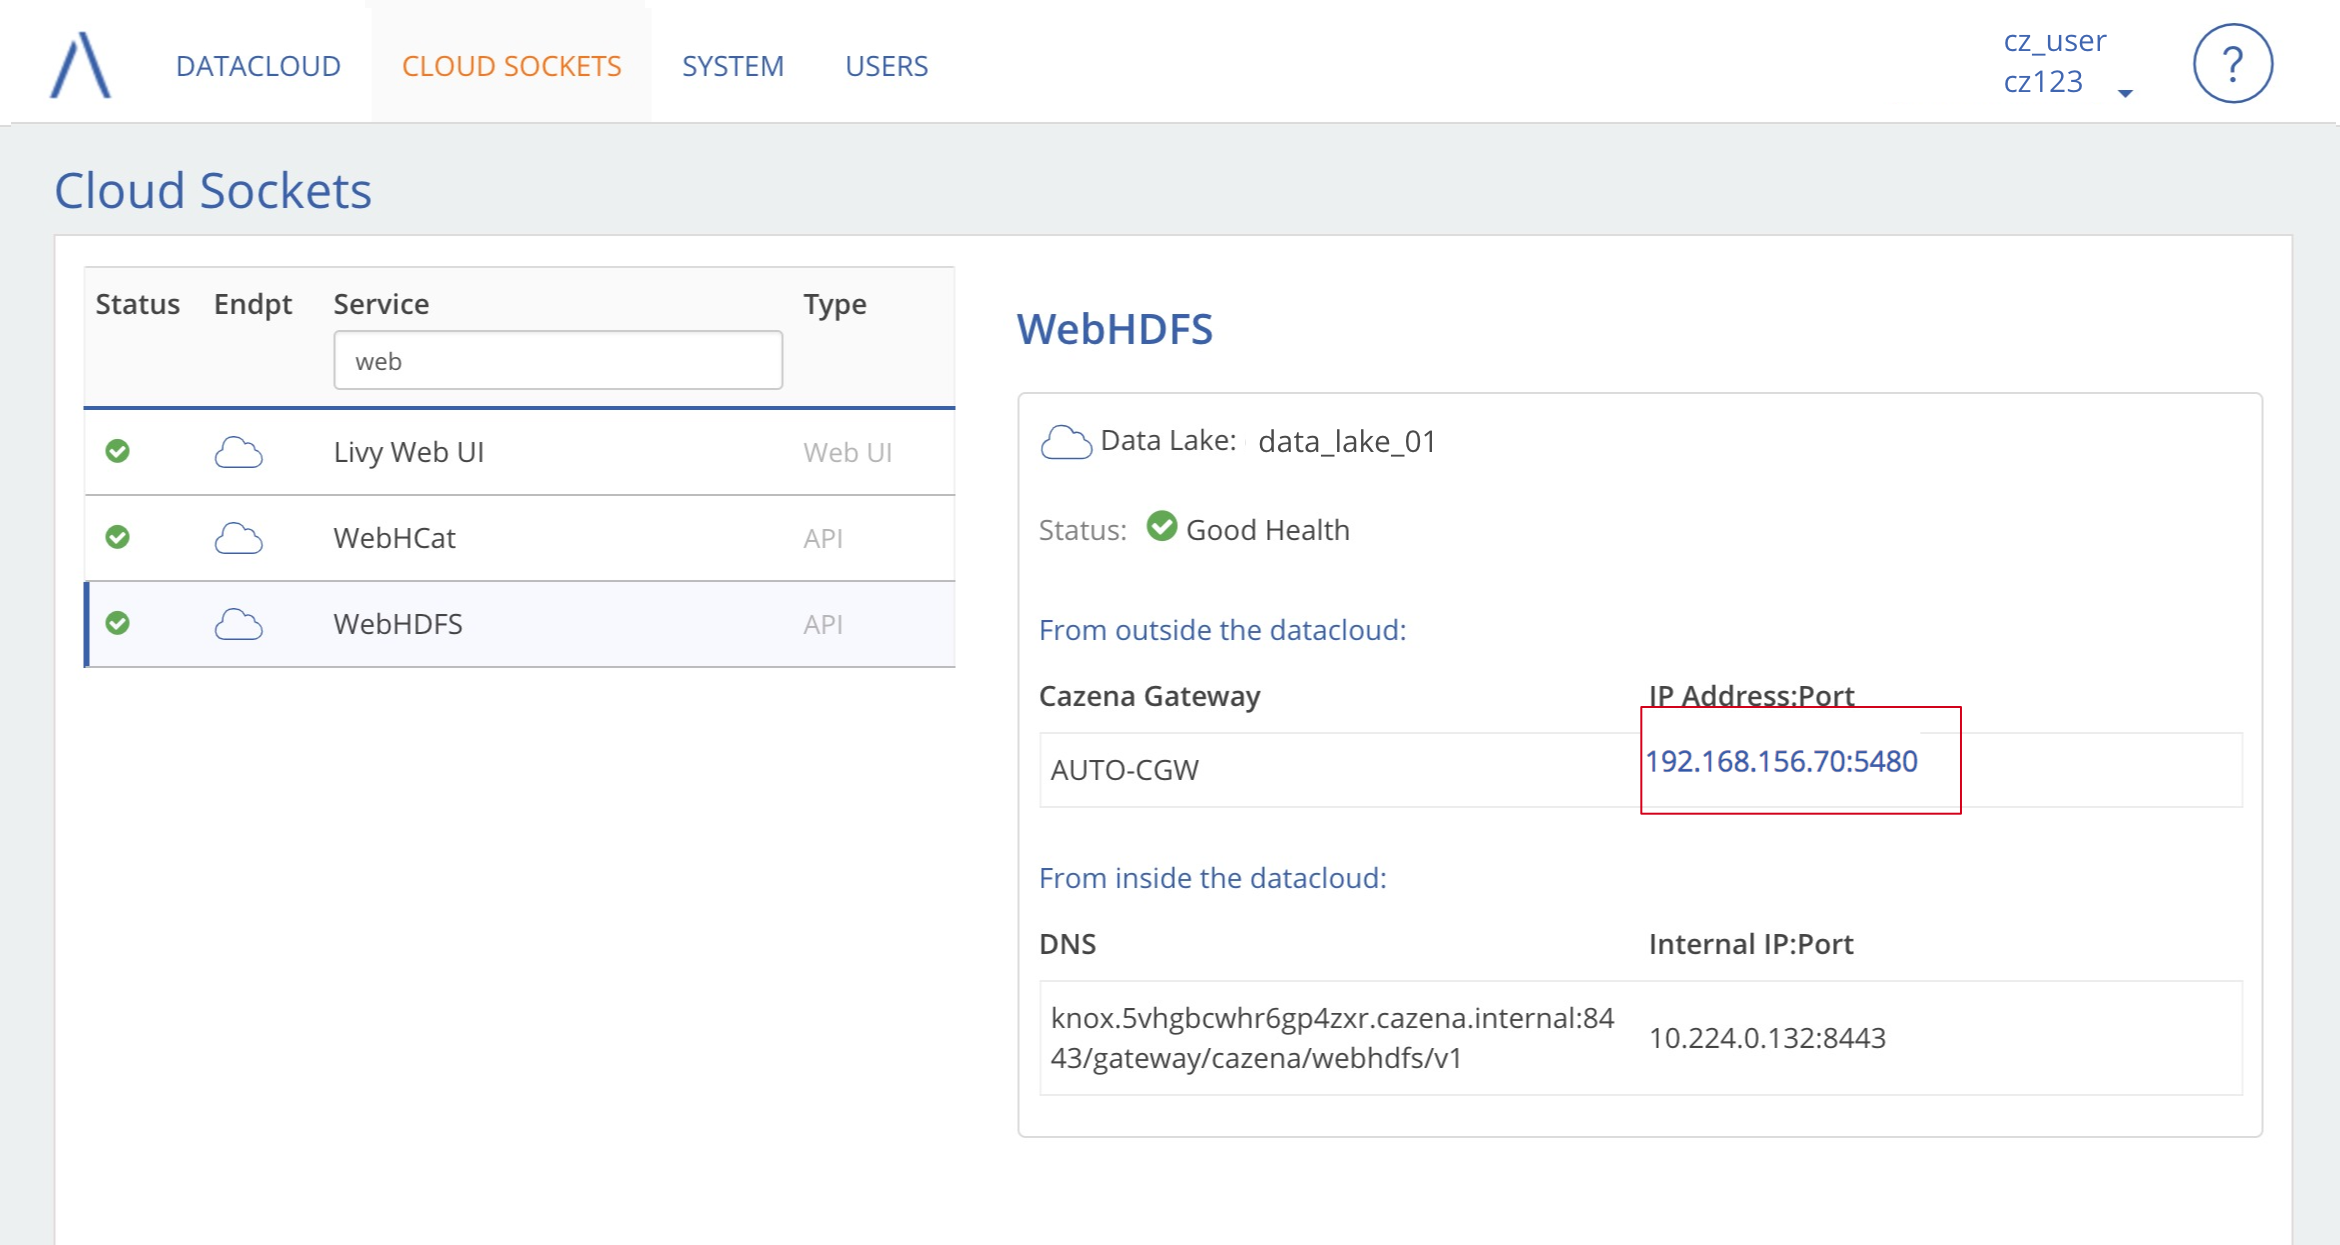
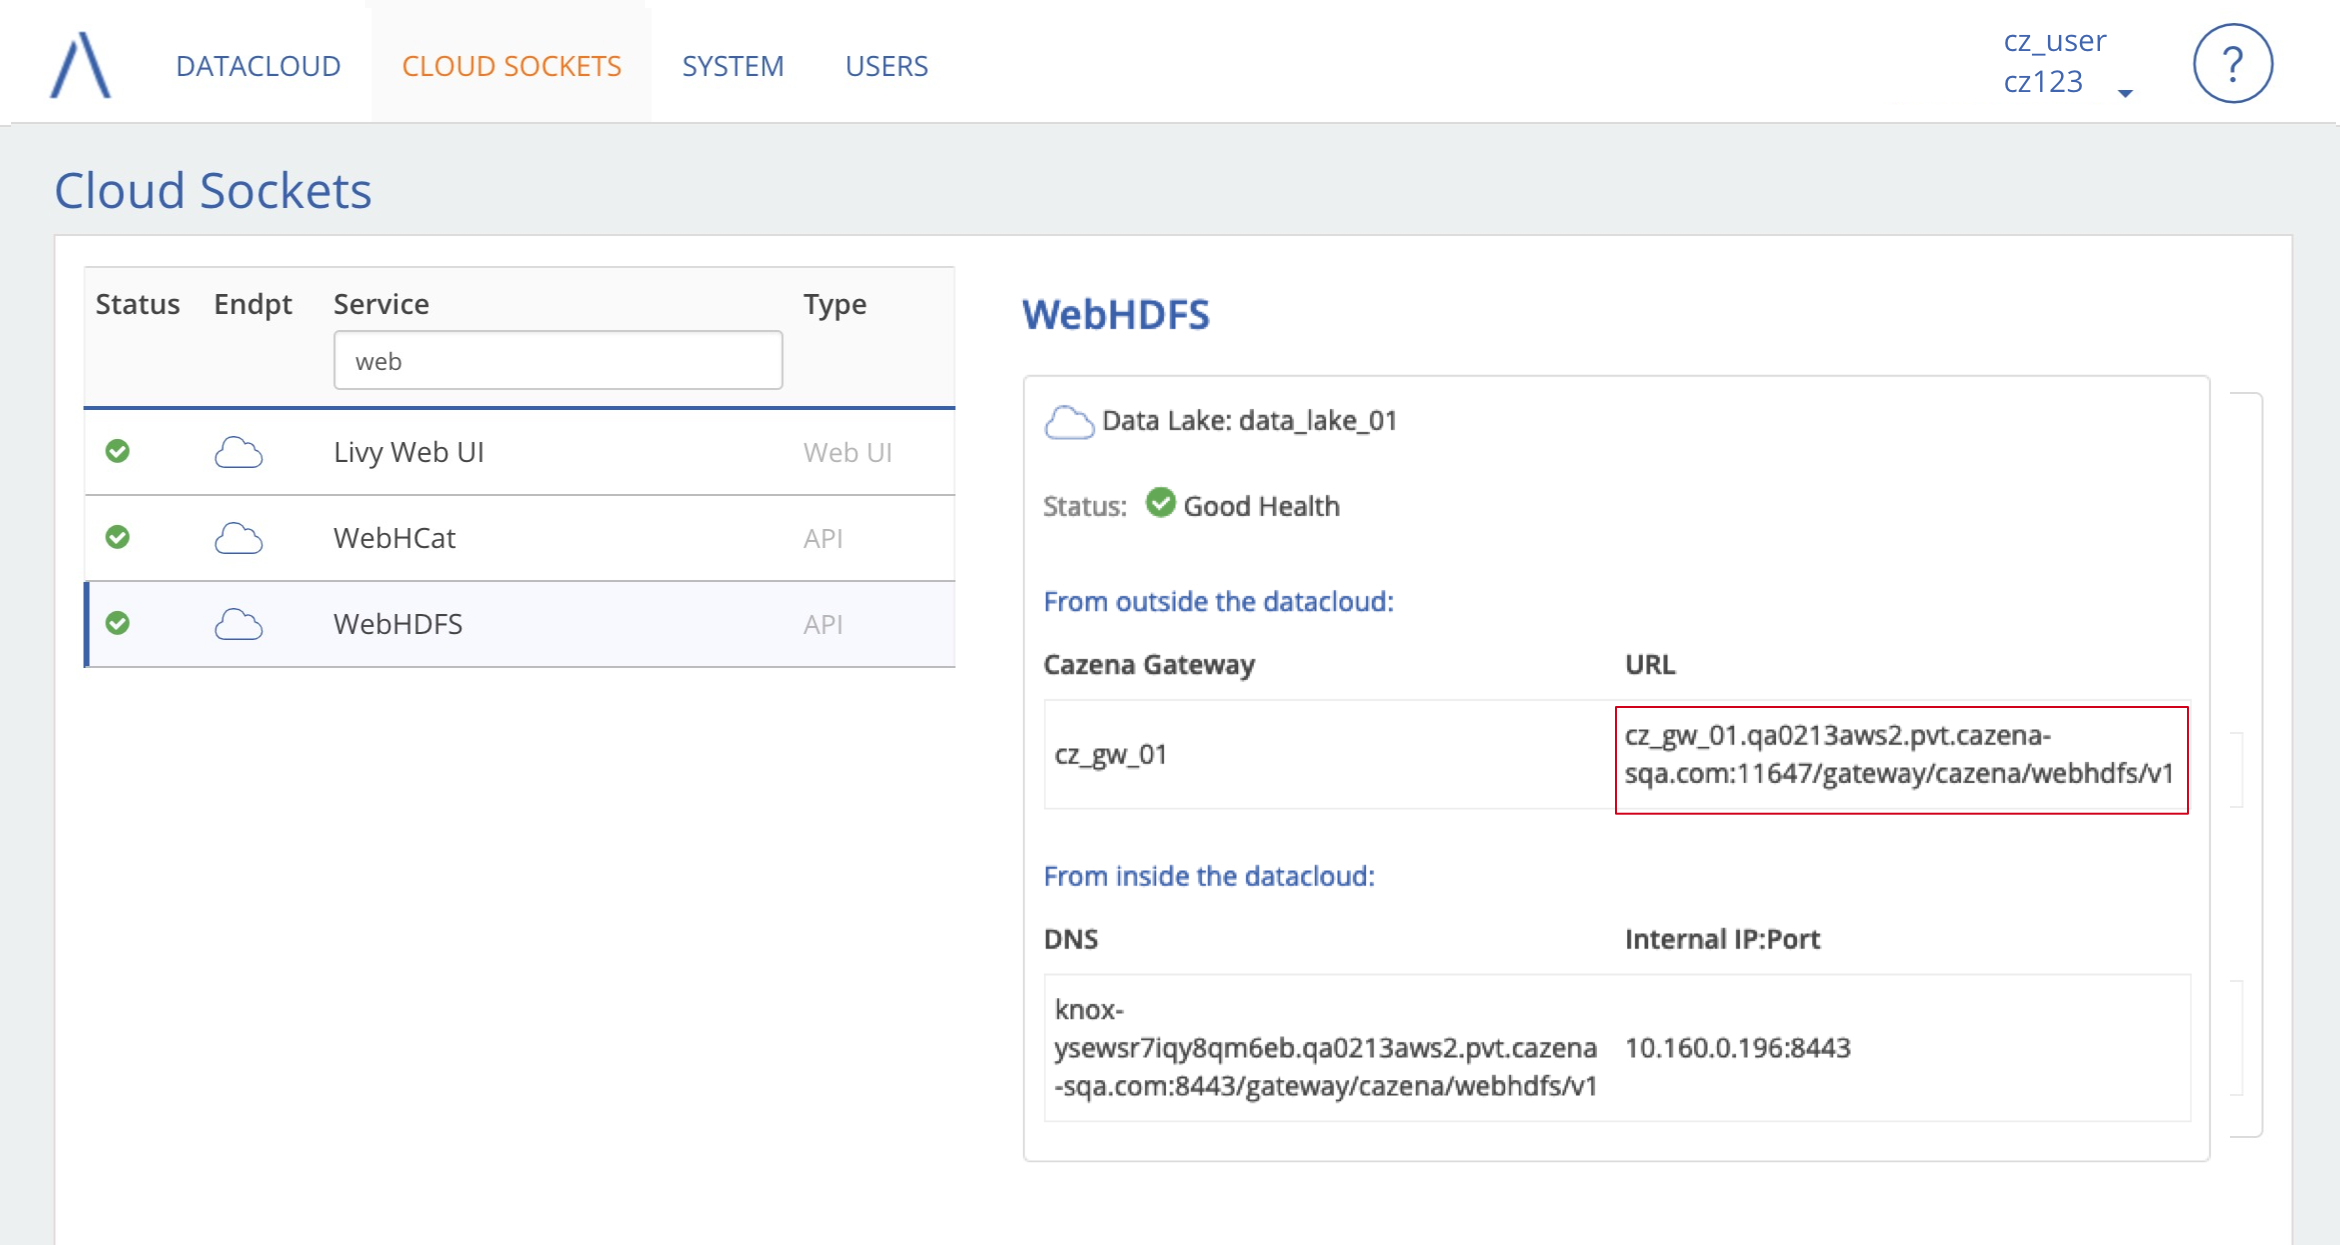
Update screenshots and IP references Remove Centralized Logging section

diff --git a/_site/index.html b/_site/index.html
@@ -64,8 +64,6 @@
   </li>
   <li>
     <p>The <strong>AppCloud</strong> allows you to deploy any tool (e.g., analytics, machine learning, or proprietary algorithms), with secure access to data in the cloud.</p>
-
-    <p><img src="assets/documentation/overview/system_diagram.png" alt=" Cazena System " title="Cazena System" /></p>
   </li>
 </ul>
 
@@ -86,9 +84,9 @@
 <p class="list">The details for a cloud socket contain two sections:</p>
 
 <h5 id="from-outside-the-datacloud">From outside the datacloud</h5>
-<p>Use <strong>IP Address:Port</strong> to connect to a service from outside of the datacloud. This will establish a secure  connection to the service through the Cazena Gateway. For example, you would use <strong>IP Address:Port</strong> to connect to RStudio Server via the Cazena gateway.</p>
+<p>Use the URL on the right side to connect to a service (e.g., RStudio) from outside of the datacloud. This will establish a secure connection to the service through the Cazena Gateway.</p>
 
-<p class="width-75"><img src="assets/documentation/cloud_sockets/rstudio_ip_address.png" alt=" RStudio IP Address:Port " title="RStudio IP Address:Port" /></p>
+<p class="width-75"><img src="assets/documentation/cloud_sockets/rstudio_url.png" alt=" RStudio URL " title="RStudio IP Address:Port" /></p>
 
 <p><br />
 <br /></p>
@@ -116,7 +114,7 @@
 
 <p class="step">Step 1: Setup (Optional)</p>
 
-<p class="list">This example shows how you would use RStudio with a table that you move into a data lake. To follow the example, you would first have to use the Cazena console to move a file, <a href="assets/documents/nycflights.dsv" target="_blank">nycflights.dsv</a>, onto a data lake.</p>
+<p class="list">This example shows how you would use RStudio with a table that you move into a data lake. To follow the example, you would first use the Cazena console to move a file, <a href="assets/documents/nycflights.dsv" target="_blank">nycflights.dsv</a>, onto a data lake.</p>
 
 <ul>
   <li>You can download the sample file here:  <a href="/documents/nycflights.dsv" target="_blank">nycflights.dsv</a></li>
@@ -135,7 +133,7 @@
 <ol>
   <li>Select the <strong>Cloud Sockets</strong> tab.</li>
   <li>On the left side of the screen, click on <strong>RStudio Server</strong>.</li>
-  <li>Click on the link that appears on the right side of the screen. If your company has more than one Cazena gateway, you may see more than one link; you can use any of them.</li>
+  <li>Click on the URL that appears on the right side of the screen. If your company has more than one Cazena gateway, you may see more than one link; you can use any of them.</li>
   <li>
     <p>RStudio will open in a new tab. Sign in using your Cazena credentials.</p>
 
@@ -392,18 +390,18 @@ HIVE_HOME=/opt/cloudera/parcels/CDH/lib/hive
 
 <ol>
   <li>
-    <p>From the <strong>Cloud Sockets</strong> tab, select <strong>AWS Console Login</strong> on the left side of the screen.</p>
+    <p>From the <strong>Cloud Sockets</strong> tab, select <strong>AWS S3 Console</strong> on the left side of the screen.</p>
   </li>
   <li>
     <p>A link to the AWS bucket will appear on the right side. Sessions that you initial from this link will expire after 12 hours.</p>
 
-    <p><img src="assets/documentation/object_store/aws_login_link.png" alt=" AWS Console Login " title="AWS Console Login" /></p>
+    <p><img src="assets/documentation/object_store/aws_login_link.png" alt=" AWS S3 Console " title="AWS S3 Console " /></p>
   </li>
 </ol>
 
 <h3 id="aws_account_information">View AWS Keys and Token</h3>
 
-<p>To view the bucket name, AWS access key, secret access key and session token, select the <strong>System</strong> tab, then <strong>S3</strong>. The AWS login link is also available on this page.</p>
+<p>To view the bucket name, AWS access key, secret access key and session token, select the <strong>System</strong> tab, then <strong>S3</strong>. The AWS S3 link is also available on this page.</p>
 
 <p><img src="assets/documentation/object_store/s3_variables.png" alt=" AWS Keys and Token " title="AWS Keys and Token " /></p>
 
@@ -2591,12 +2589,6 @@ Complete
   <li>Within each data lake or data mart, the <a href="#dashboard"><strong>Dashboard</strong></a> tab provides an overview of performance over a period of time.</li>
 </ul>
 
-<h6 class="list" id="log-files">Log Files</h6>
-
-<ul>
-  <li><a href="#log_server_console"><strong>Centralized Logging</strong></a> contains system logs and analytic information for all data lakes and data marts. This information is only available to system administrators.</li>
-</ul>
-
 <h2 id="cloud_sockets_tab">Cloud Sockets</h2>
 
 <p>The <strong>Cloud Sockets</strong> tab shows the status (Good Health, Warning or Critical) of preconfigured services such as RStudio and Hue.</p>
@@ -2699,23 +2691,6 @@ Complete
 <p>After the job has been stopped it will appear in the list with the stopped icon: <span class="icon-stopped"></span></p>
 
 <p class="note"><strong>Note</strong>: Workloads that do not have a task ID are background tasks. Although they can affect performance, they cannot be cancelled. You will only see the <strong>Stop</strong> button for tasks that you are allowed to cancel.</p>
-
-<h2 id="log_server_console">Centralized Logging</h2>
-
-<p class="note"><strong>Note:</strong> Only system administrators can view system logs.</p>
-
-<p>To access Centralized Logging:</p>
-
-<ol>
-  <li>From the <strong>Cloud Sockets</strong> tab, select <strong>Centralized Logging</strong>.</li>
-  <li>Click on the URL that appears on the right side of the screen.</li>
-</ol>
-
-<p><img src="assets/documentation/monitor_system/centralized_logging.png" alt=" Centralized Logging " title="Centralized Logging" /></p>
-
-<p>The log server console contains a user interface that provides a view into Cazena’s centralized logging capability. Logs from all components of the Cazena Service are continuously aggregated into an internal ElasticSearch repository that allows easy access to all logs from a single search based interface. These logs can be used as the basis for troubleshooting data pipeline operations or form the basis for compliance or auditing. For complete details on how to use the visual interface, consult the documentation at <a href="https://www.elastic.co/guide/en/kibana/current/dashboard.html" target="_blank">Elastic</a>.</p>
-
-<p><img src="assets/documentation/monitor_system/log_server_console.png" alt=" Log Server Console " title="Log Server Console" /></p>
 
         </section>
 

diff --git a/_sections/cloud_sockets.md b/_sections/cloud_sockets.md
@@ -12,10 +12,10 @@ The details for a cloud socket contain two sections:
 {:.list}
 
 ##### From outside the datacloud
- Use __IP Address:Port__ to connect to a service from outside of the datacloud. This will establish a secure  connection to the service through the Cazena Gateway. For example, you would use __IP Address:Port__ to connect to RStudio Server via the Cazena gateway.
+ Use the URL on the right side to connect to a service (e.g., RStudio) from outside of the datacloud. This will establish a secure connection to the service through the Cazena Gateway. 
 
 
-![ RStudio IP Address:Port ](assets/documentation/cloud_sockets/rstudio_ip_address.png "RStudio IP Address:Port")
+![ RStudio URL ](assets/documentation/cloud_sockets/rstudio_url.png "RStudio IP Address:Port")
 {:.width-75}
 
 <br/>
@@ -49,7 +49,7 @@ Cazena data lakes include support for SparkR, an R package that provides a front
 Step 1: Setup (Optional)
 {:.step}
 
-This example shows how you would use RStudio with a table that you move into a data lake. To follow the example, you would first have to use the Cazena console to move a file, <a href="assets/documents/nycflights.dsv" target="_blank">nycflights.dsv</a>, onto a data lake. 
+This example shows how you would use RStudio with a table that you move into a data lake. To follow the example, you would first use the Cazena console to move a file, <a href="assets/documents/nycflights.dsv" target="_blank">nycflights.dsv</a>, onto a data lake. 
 {:.list}
 
 * You can download the sample file here:  <a href="/documents/nycflights.dsv" target="_blank">nycflights.dsv</a>
@@ -65,7 +65,7 @@ Step 2: Connect to RStudio Server Through Your Browser:
 
 1. Select the __Cloud Sockets__ tab.
 1. On the left side of the screen, click on __RStudio Server__.
-1. Click on the link that appears on the right side of the screen. If your company has more than one Cazena gateway, you may see more than one link; you can use any of them.
+1. Click on the URL that appears on the right side of the screen. If your company has more than one Cazena gateway, you may see more than one link; you can use any of them.
 1. RStudio will open in a new tab. Sign in using your Cazena credentials.
 
     ![ R Connection Details ](assets/documentation/cloud_sockets/rstudio_cloud_socket.png "R Connection Details")

diff --git a/_sections/monitor_system.md b/_sections/monitor_system.md
@@ -28,12 +28,6 @@ The Cazena console provides tools for monitoring workloads, data movement progre
 * The front page of the [__Datacloud__](#datacloud_overview) tab shows high level metrics for the past hour, as well as statuses for each data lake and data mart.
 * Within each data lake or data mart, the [__Dashboard__](#dashboard) tab provides an overview of performance over a period of time.
 
-###### Log Files
-{:.list}
-
-* [__Centralized Logging__](#log_server_console) contains system logs and analytic information for all data lakes and data marts. This information is only available to system administrators.
-
-
 ## Cloud Sockets {#cloud_sockets_tab}
 
 The __Cloud Sockets__ tab shows the status (Good Health, Warning or Critical) of preconfigured services such as RStudio and Hue.
@@ -127,25 +121,3 @@ After the job has been stopped it will appear in the list with the stopped icon:
 
 __Note__: Workloads that do not have a task ID are background tasks. Although they can affect performance, they cannot be cancelled. You will only see the __Stop__ button for tasks that you are allowed to cancel.
 {:.note}
-
-
-
-
-
-## Centralized Logging {#log_server_console} 
-
-__Note:__ Only system administrators can view system logs.
-{:.note} 
-
-
-To access Centralized Logging:
-
-1. From the __Cloud Sockets__ tab, select __Centralized Logging__.
-1. Click on the URL that appears on the right side of the screen.
-
-![ Centralized Logging ](assets/documentation/monitor_system/centralized_logging.png "Centralized Logging")
-
-
-The log server console contains a user interface that provides a view into Cazena’s centralized logging capability. Logs from all components of the Cazena Service are continuously aggregated into an internal ElasticSearch repository that allows easy access to all logs from a single search based interface. These logs can be used as the basis for troubleshooting data pipeline operations or form the basis for compliance or auditing. For complete details on how to use the visual interface, consult the documentation at <a href="https://www.elastic.co/guide/en/kibana/current/dashboard.html" target="_blank">Elastic</a>.  
-
-![ Log Server Console ](assets/documentation/monitor_system/log_server_console.png "Log Server Console")

diff --git a/_sections/object_store.md b/_sections/object_store.md
@@ -47,15 +47,15 @@ From the Cazena console, you may link to the AWS bucket and [view keys and token
 
 To link to the S3 bucket:
 
-1. From the __Cloud Sockets__ tab, select __AWS Console Login__ on the left side of the screen.
+1. From the __Cloud Sockets__ tab, select __AWS S3 Console__ on the left side of the screen.
 
 1. A link to the AWS bucket will appear on the right side. Sessions that you initial from this link will expire after 12 hours.
 
-    ![ AWS Console Login ](assets/documentation/object_store/aws_login_link.png "AWS Console Login")
+    ![ AWS S3 Console ](assets/documentation/object_store/aws_login_link.png "AWS S3 Console ")
 
 ### View AWS Keys and Token {#aws_account_information}
 
-To view the bucket name, AWS access key, secret access key and session token, select the __System__ tab, then __S3__. The AWS login link is also available on this page.
+To view the bucket name, AWS access key, secret access key and session token, select the __System__ tab, then __S3__. The AWS S3 link is also available on this page.
 
   ![ AWS Keys and Token ](assets/documentation/object_store/s3_variables.png "AWS Keys and Token ")
 

diff --git a/_sections/overview.md b/_sections/overview.md
@@ -20,10 +20,5 @@ Each solution included the following components, in addition to data engines and
 
 * The __AppCloud__ allows you to deploy any tool (e.g., analytics, machine learning, or proprietary algorithms), with secure access to data in the cloud.
 
-
-
-    ![ Cazena System ](assets/documentation/overview/system_diagram.png "Cazena System")
-
-
 ---
 {:.end-section}
